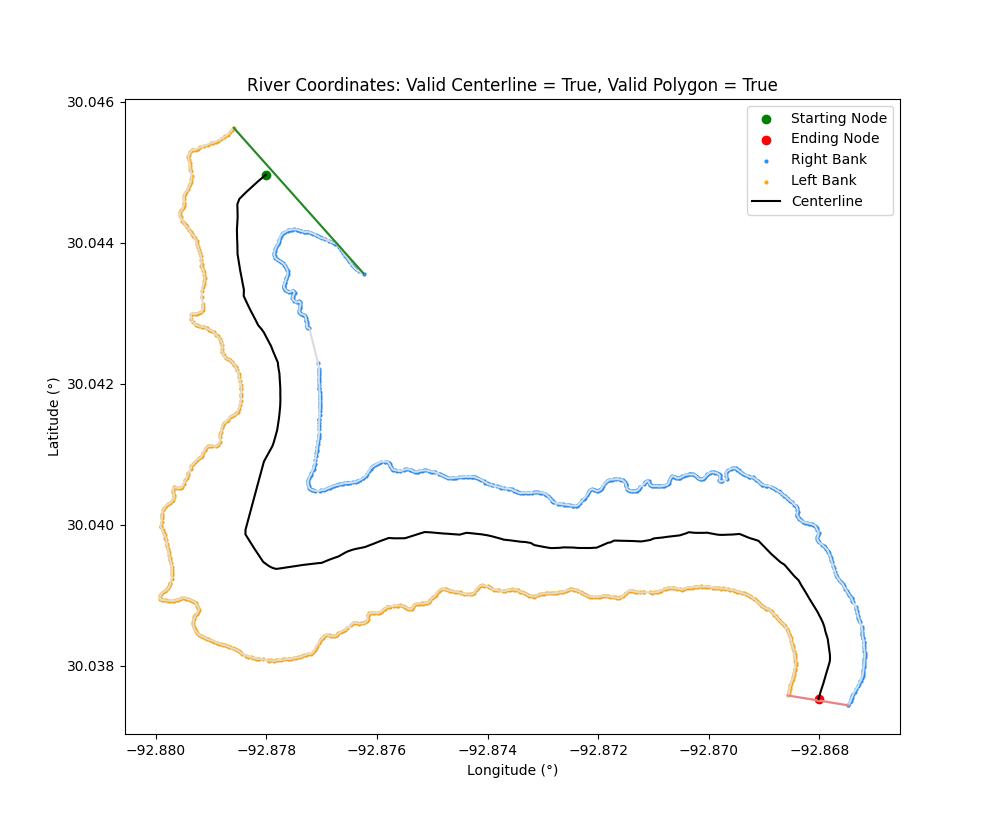
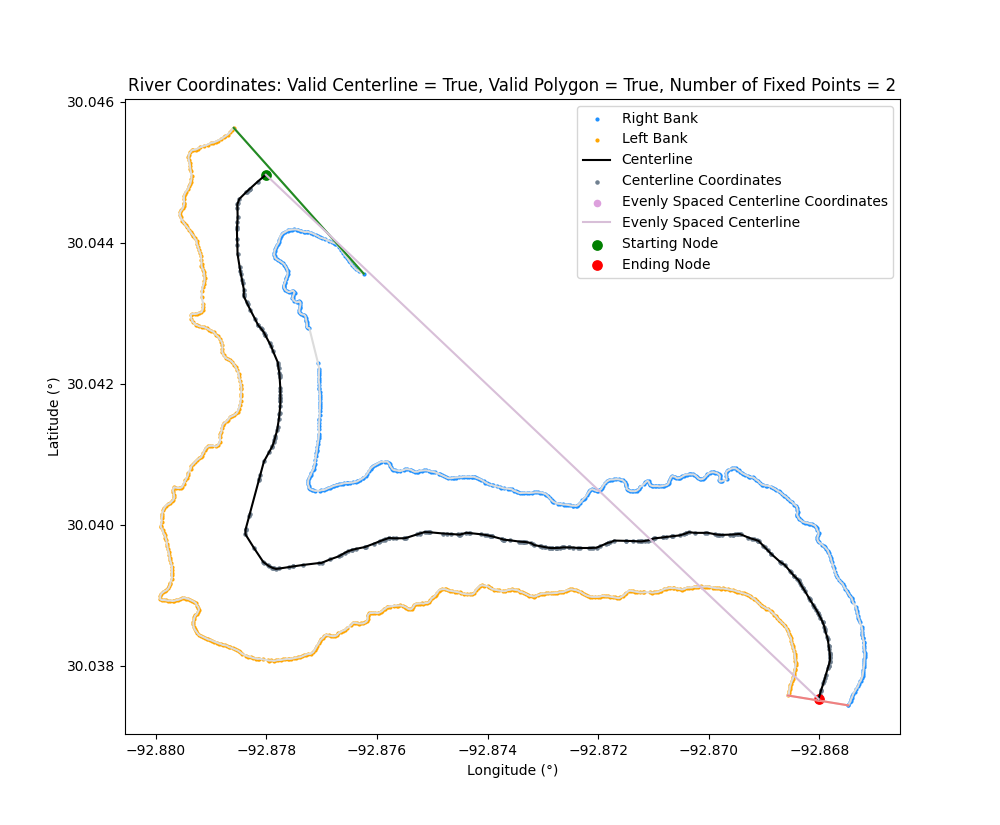
evenly space points along centerline

diff --git a/centerline_width/plotDiagrams.py b/centerline_width/plotDiagrams.py
@@ -13,8 +13,8 @@ def plotCenterline(csv_data=None,
 					save_plot_name=None, 
 					displayVoronoi=False,
 					plot_width_lines=False,
+					n_interprolate_centerpoints=10,
 					optional_cutoff=None):
-	# display_all_paths: display all possible paths (not just centerline) (useful for debugging)
 
 	centerline_width.errorHandlingPlotCenterline(csv_data=csv_data,
 												display_all_possible_paths=display_all_possible_paths,
@@ -22,6 +22,7 @@ def plotCenterline(csv_data=None,
 												save_plot_name=save_plot_name,
 												displayVoronoi=displayVoronoi,
 												plot_width_lines=plot_width_lines,
+												n_interprolate_centerpoints=n_interprolate_centerpoints,
 												optional_cutoff=optional_cutoff)
 
 	# Plot river
@@ -54,11 +55,6 @@ def plotCenterline(csv_data=None,
 	if displayVoronoi:
 		voronoi_plot_2d(river_bank_voronoi, show_points=True, point_size=1, ax=ax)
 
-	# Dynamically assign the starting and ending
-	if starting_node is not None: # error handling for when data is too small to generate centerline coordiantes
-		plt.scatter(starting_node[0], starting_node[1], c="green", label="Starting Node")
-		plt.scatter(ending_node[0], ending_node[1], c="red", label="Ending Node")
-
 	# Plot all possible paths with text for positions
 	if display_all_possible_paths or not river_bank_polygon.is_valid: # display paths if polygon is not valid (debugging purposes)
 		for i in range(len(x_ridge_point)):
@@ -90,28 +86,44 @@ def plotCenterline(csv_data=None,
 		plt.plot(*zip(*shortest_path_points), c="black", label="Centerline")
 
 	# Determine the Width of River
+	number_of_evenly_spaced_points = ""
 	if plot_width_lines:
+		number_of_evenly_spaced_points = ", Number of Fixed Points = {0}".format(n_interprolate_centerpoints)
 		if starting_node is not None: # error handling for when data is too small to generate centerline coordiantes
+			evenly_spaced_centerline_coordinates = centerline_width.evenlySpacedCenterline(centerline_coordinates=shortest_path_points,
+																						number_of_fixed_points=n_interprolate_centerpoints)
+
 			right_width_coordinates, left_width_coordinates = centerline_width.riverWidthFromCenterlineCoordinates(csv_data=csv_data, 
 																bank_polygon=river_bank_polygon,
-																centerline_coordinates=shortest_path_points,
-																	optional_cutoff=optional_cutoff)
+																centerline_coordinates=evenly_spaced_centerline_coordinates,
+																optional_cutoff=optional_cutoff)
 			x = []
 			y = []
 			for k, v in shortest_path_points:
 				x.append(k)
 				y.append(v)
-			plt.scatter(x, y, c="mediumorchid", label="Centerline Coordinates")
-			for center_coord, edge_coord in right_width_coordinates.items():
-				x_points = (right_width_coordinates[center_coord][0], left_width_coordinates[center_coord][0])
-				y_points = (right_width_coordinates[center_coord][1], left_width_coordinates[center_coord][1])
-				#print(x_points)
-				#print(y_points)
-				plt.plot(x_points, y_points, 'mediumorchid', linewidth=1)
+			plt.scatter(x, y, c="slategray", label="Centerline Coordinates", s=5)
+			x = []
+			y = []
+			for k, v in evenly_spaced_centerline_coordinates:
+				x.append(k)
+				y.append(v)
+			plt.scatter(x, y, c="plum", label="Evenly Spaced Centerline Coordinates", s=20)
+			plt.plot(*zip(*evenly_spaced_centerline_coordinates), c="thistle", label="Evenly Spaced Centerline")
+
+			#for center_coord, edge_coord in right_width_coordinates.items():
+			#	x_points = (right_width_coordinates[center_coord][0], left_width_coordinates[center_coord][0])
+			#	y_points = (right_width_coordinates[center_coord][1], left_width_coordinates[center_coord][1])
+			#	plt.plot(x_points, y_points, 'mediumorchid', linewidth=1)
+
+	# Dynamically assign the starting and ending
+	if starting_node is not None: # error handling for when data is too small to generate centerline coordiantes
+		plt.scatter(starting_node[0], starting_node[1], c="green", label="Starting Node", s=45)
+		plt.scatter(ending_node[0], ending_node[1], c="red", label="Ending Node", s=45)
 
 	# Plot Title, Legends, and Axis Labels
 	if not plot_title:
-		plt.title("River Coordinates: Valid Centerline = {0}, Valid Polygon = {1}".format(valid_path_through, river_bank_polygon.is_valid))
+		plt.title("River Coordinates: Valid Centerline = {0}, Valid Polygon = {1}{2}".format(valid_path_through, river_bank_polygon.is_valid, number_of_evenly_spaced_points))
 	else:
 		plt.title(plot_title)
 	plt.xlabel("Longitude (°)")

diff --git a/centerline_width/centerline.py b/centerline_width/centerline.py
@@ -1,6 +1,7 @@
 import math
 import logging
 
+import numpy as np
 import pandas as pd
 import networkx as nx
 from shapely.geometry import Point, Polygon, LineString
@@ -94,10 +95,27 @@ def centerlineLatitudeLongitude(csv_data=None, optional_cutoff=None):
 
 	return shortest_path_coordinates
 
+def evenlySpacedCenterline(centerline_coordinates=None, number_of_fixed_points=10):
+	# Interpolate to evenly space points along the centerline coordinates (effectively smoothing with fewer points)
+	centerline_line = LineString(centerline_coordinates)
+
+	# Splitting into a fixed number of points
+	distances_evenly_spaced = np.linspace(0, centerline_line.length, number_of_fixed_points)
+	points_evenly_spaced = [centerline_line.interpolate(distance) for distance in distances_evenly_spaced]
+
+	# Convert Shapley Points to a List of Tuples (coordinates)
+	interpolated_centerline_coordinates = []
+	for point in points_evenly_spaced:
+		interpolated_centerline_coordinates.append((point.x, point.y))
+
+	return interpolated_centerline_coordinates
+
 def riverWidthFromCenterlineCoordinates(csv_data=None, centerline_coordinates=None, bank_polygon=None, save_to_csv=None, optional_cutoff=None):
 	# Return the left/right coordinates of width centerlines
 	right_width_coordinates = {}
 	left_width_coordinates = {}
+	x = []
+	y = []
 
 	df = pd.read_csv(csv_data)
 	if optional_cutoff:
@@ -105,31 +123,6 @@ def riverWidthFromCenterlineCoordinates(csv_data=None, centerline_coordinates=No
 	left_bank_coordinates, right_bank_coordinates = centerline_width.leftRightCoordinates(df)
 	if bank_polygon is None:
 		bank_polygon, _, _ = centerline_width.generatePolygon(left_bank_coordinates, right_bank_coordinates)
-
-	minx, miny, maxx, maxy = bank_polygon.bounds
-	for i, centerline_points in enumerate(centerline_coordinates):
-		if i+1 < len(centerline_coordinates):
-			print(centerline_points)
-			dx = (centerline_coordinates[i][0] - centerline_coordinates[i+1][0])
-			dy = (centerline_coordinates[i][1] - centerline_coordinates[i+1][1])
-			slope_1 = - dy / dx
-			slope_2 =  dy / - dx
-			print(minx)
-			print(centerline_coordinates[i][0])
-			print(centerline_coordinates[i][1])
-			y_left = slope_1 * (minx - centerline_coordinates[i][0]) + centerline_coordinates[i][1]
-			y_right = slope_2 * (maxx - centerline_coordinates[i][0]) + centerline_coordinates[i][1]
-			sloped_line = LineString([(minx, y_left), (maxx, y_right)])
-			line_intersection_points = bank_polygon.exterior.intersection(sloped_line)
-			print(line_intersection_points)
-			print(len(line_intersection_points.geoms))
-			for i in range(len(line_intersection_points.geoms)):
-				print(line_intersection_points.geoms[i])
-				print(line_intersection_points.geoms[i].x)
-				print(line_intersection_points.geoms[i].y)
-			#left_width_coordinates[centerline_points] = [minx, y_left]
-			#right_width_coordinates[centerline_points] = [maxx, y_right]
-			
 
 	return right_width_coordinates, left_width_coordinates
 

diff --git a/centerline_width/error_handling.py b/centerline_width/error_handling.py
@@ -43,6 +43,7 @@ def errorHandlingPlotCenterline(csv_data=None,
 								save_plot_name=None,
 								displayVoronoi=None,
 								plot_width_lines=None,
+								n_interprolate_centerpoints=None,
 								optional_cutoff=None):
 	# Error handling for plotCenterline()
 	if csv_data is None:
@@ -76,6 +77,14 @@ def errorHandlingPlotCenterline(csv_data=None,
 	if type(plot_width_lines) != bool:
 		logger.critical("\nCRITICAL ERROR, [plot_width_lines]: Must be a bool, current type = '{0}'".format(type(plot_width_lines)))
 		exit()
+
+	if type(n_interprolate_centerpoints) != int:
+		logger.critical("\nCRITICAL ERROR, [n_interprolate_centerpoints]: Must be a int, current type = '{0}'".format(type(n_interprolate_centerpoints)))
+		exit()
+	else:
+		if n_interprolate_centerpoints < 2:
+			logger.critical("\nCRITICAL ERROR, [n_interprolate_centerpoints]: Must be a greater than 1, currently = '{0}'".format(n_interprolate_centerpoints))
+			exit()
 
 	if optional_cutoff is not None and type(optional_cutoff) != int:
 		logger.critical("\nCRITICAL ERROR, [optional_cutoff]: Must be a int, current type = '{0}'".format(type(optional_cutoff)))

diff --git a/river_centerline_width_example.py b/river_centerline_width_example.py
@@ -7,7 +7,7 @@ if __name__ == "__main__":
 
 	# Valid Examples
 	cutoff = None
-	#cutoff = 6
+	#cutoff = 10
 	#cutoff = 15 # valid centerline, valid path, valid polygon, valid starting node, valid ending node
 	#cutoff = 100 # valid centerline, valid path, valid polygon, valid starting node, valid ending node
 	cutoff = 550 # valid centerline, valid path, valid polygon, valid starting node, valid ending node
@@ -23,7 +23,8 @@ if __name__ == "__main__":
 									save_plot_name="data/river_coords.png", 
 									display_all_possible_paths=False, 
 									displayVoronoi=False, 
-									plot_width_lines=False,
+									plot_width_lines=True,
+									n_interprolate_centerpoints=2,
 									optional_cutoff=cutoff)
 	exit()
 	# Return the latitude/longtiude coordinates for the centerline

diff --git a/centerline_width/__init__.py b/centerline_width/__init__.py
@@ -13,6 +13,7 @@ from .centerline import centerlinePath
 from .centerline import networkXGraphShortestPath
 from .centerline import centerlineLatitudeLongitude
 from .centerline import centerlineLength
+from .centerline import evenlySpacedCenterline
 from .centerline import riverWidthFromCenterlineCoordinates
 from .centerline import riverWidthFromCenterline
 
